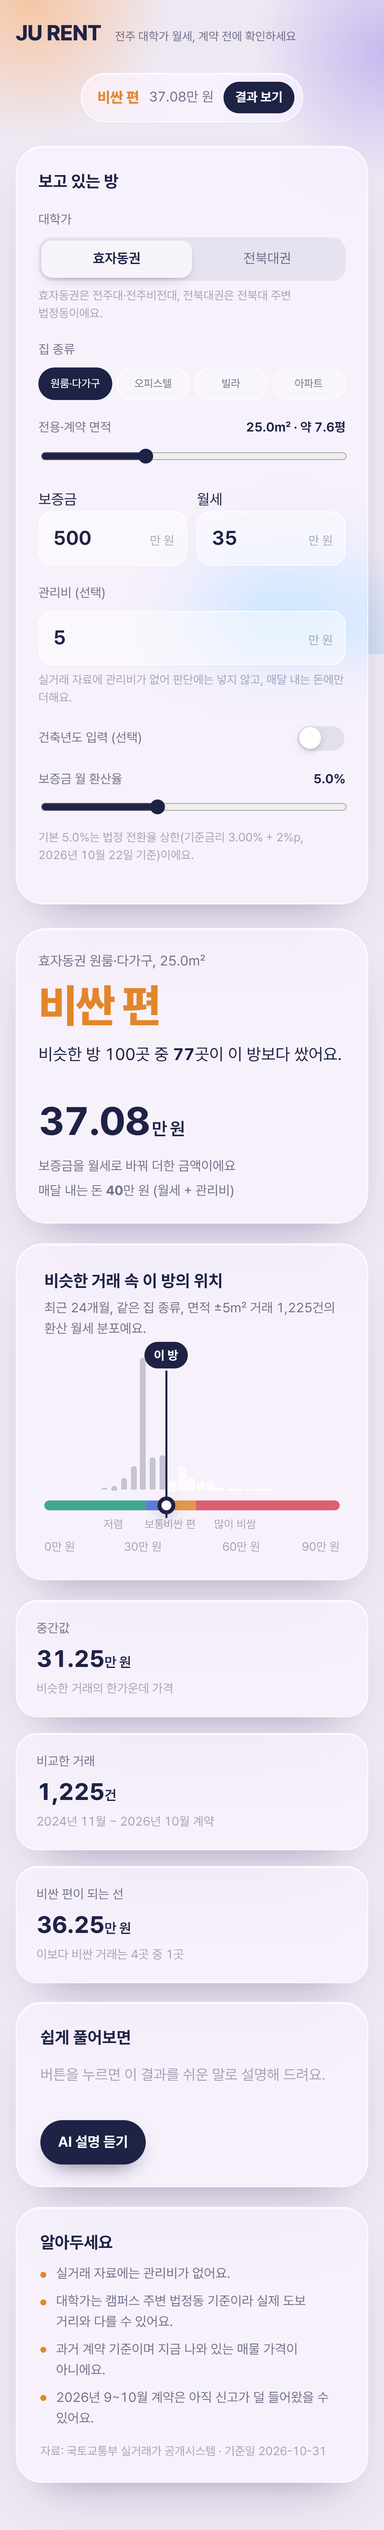
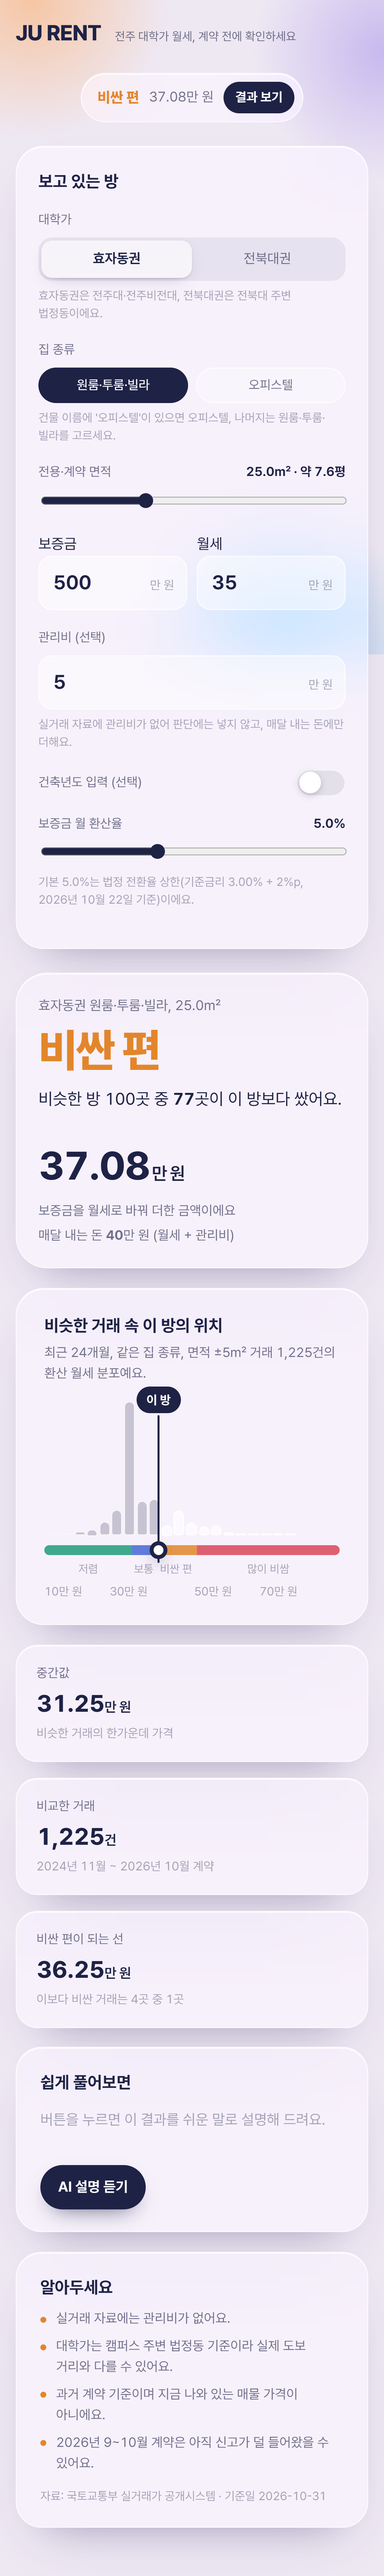
fix: align distribution axis and simplify housing choices

diff --git a/web/src/App.tsx b/web/src/App.tsx
@@ -1,7 +1,8 @@
 import { animate, motion, useMotionValue, useMotionValueEvent, useReducedMotion } from 'motion/react'
 import { useEffect, useMemo, useRef, useState } from 'react'
 import { comparisonSentence, displayWarning, monthPeriod, percentileSentence, rateHint, verdictText } from './copy'
-import { axisTicks, pinPlacement, shouldDrawDistribution } from './distribution'
+import { distributionAxis, pinPlacement, positionOnAxis, shouldDrawDistribution } from './distribution'
+import { housingName, housingOptions } from './housing'
 import type { ContractInput, Explanation, Judgment, Meta } from './types'
 
 type FormState = {
@@ -94,11 +95,9 @@ function Distribution({ result }: { result: Judgment }) {
   const low = bins[0]?.left ?? 0
   const high = bins.at(-1)?.right ?? low + 1
   const draw = shouldDrawDistribution(result.label, bins.length)
-  const ticks = axisTicks(low, high)
-  const axisLow = ticks[0]
-  const axisHigh = ticks.at(-1)!
-  const position = (value: number) => Math.min(100, Math.max(0, (value - axisLow) / (axisHigh - axisLow) * 100))
-  const pin = pinPlacement(result.converted_monthly_10k_krw, low, high, axisLow, axisHigh)
+  const axis = distributionAxis(low, high, result.converted_monthly_10k_krw)
+  const position = (value: number) => positionOnAxis(value, axis)
+  const pin = pinPlacement(result.converted_monthly_10k_krw, low, high, axis)
   const maxCount = Math.max(1, ...bins.map(bin => bin.count))
   const regions = q ? [
     { width: position(q.p25), color: 'var(--cheap)', label: '저렴' },
@@ -107,8 +106,8 @@ function Distribution({ result }: { result: Judgment }) {
     { width: 100 - position(q.p90), color: 'var(--very)', label: '많이 비쌈' },
   ] : []
   const centers = q ? [
-    position((low + q.p25) / 2), position((q.p25 + q.p75) / 2),
-    position((q.p75 + q.p90) / 2), position((q.p90 + high) / 2),
+    position((axis.low + q.p25) / 2), position((q.p25 + q.p75) / 2),
+    position((q.p75 + q.p90) / 2), position((q.p90 + axis.high) / 2),
   ] : []
 
   return <section className="dist glass reveal d3" aria-label="비슷한 거래 분포">
@@ -134,7 +133,7 @@ function Distribution({ result }: { result: Judgment }) {
           <div className="stem" /><div className="dot" /><div className="tag">{pin.tag}</div>
         </motion.div>
       </div>
-      <div className="axis">{ticks.map(tick => <span key={tick} style={{ left: `${position(tick)}%` }}>{format(tick)}만 원</span>)}</div>
+      <div className="axis">{axis.ticks.map(tick => <span key={tick} style={{ left: `${position(tick)}%` }}>{format(tick)}만 원</span>)}</div>
     </> : <p className="dist-empty">비슷한 거래가 적어 분포를 그리지 않았어요</p>}
   </section>
 }
@@ -164,7 +163,7 @@ export default function App() {
       .then(data => {
         setMeta(data)
         setForm(current => ({ ...current, campus: data.campuses[0],
-          housing_type: data.housing_types[0].code, rate_pct: data.rate.default_pct }))
+          housing_type: housingOptions(data)[0]?.code ?? '', rate_pct: data.rate.default_pct }))
       })
       .catch(error => { if (error.name !== 'AbortError') setServerError({ field: 'general', message: error.message }) })
     return () => controller.abort()
@@ -224,7 +223,7 @@ export default function App() {
     } finally { if (!controller.signal.aborted) setExplainLoading(false) }
   }
 
-  const selectedName = meta?.housing_types.find(item => item.code === result?.input.housing_type)?.name ?? ''
+  const selectedName = housingName(result?.input.housing_type ?? '')
   const converted = result?.converted_monthly_10k_krw ?? 0
   const label = result ? verdictText(result) : ''
   const progress = result?.percentile ?? null
@@ -261,10 +260,11 @@ export default function App() {
       <div className="field">
         <div className="lab">집 종류</div>
         <div className="chips" role="group" aria-label="집 종류">
-          {meta?.housing_types.map(kind => <button key={kind.code} type="button"
-            aria-pressed={form.housing_type === kind.code} title={kind.description}
+          {meta && housingOptions(meta).map(kind => <button key={kind.code} type="button"
+            aria-pressed={form.housing_type === kind.code}
             onClick={() => update({ housing_type: kind.code })}>{kind.name}</button>)}
         </div>
+        <div className="hint">건물 이름에 '오피스텔'이 있으면 오피스텔, 나머지는 원룸·투룸·빌라를 고르세요.</div>
       </div>
       <div className="field">
         <label className="range-head" htmlFor="area"><span>전용·계약 면적</span><b>{form.area.toFixed(1)}㎡ · 약 {(form.area / 3.305785).toFixed(1)}평</b></label>

diff --git a/web/src/distribution.test.ts b/web/src/distribution.test.ts
@@ -1,5 +1,5 @@
 import { describe, expect, it } from 'vitest'
-import { axisTicks, pinPlacement, shouldDrawDistribution } from './distribution'
+import { distributionAxis, pinPlacement, positionOnAxis, shouldDrawDistribution } from './distribution'
 
 describe('distribution presentation', () => {
   it('hides all plotted elements when judgment is on hold', () => {
@@ -7,24 +7,42 @@ describe('distribution presentation', () => {
     expect(shouldDrawDistribution('보통', 20)).toBe(true)
   })
 
-  it('pins values outside observed transactions to the appropriate edge', () => {
-    expect(pinPlacement(37, 46, 47, 30, 50))
-      .toEqual({ position: 0, tag: '비교한 거래보다 싸요', edge: 'low' })
-    expect(pinPlacement(75, 11, 70, 0, 90))
-      .toEqual({ position: 100, tag: '비교한 거래보다 비싸요', edge: 'high' })
-    expect(pinPlacement(46.5, 46, 47, 30, 50))
+  it('rounds the observed domain outward to 10만 원 and includes the listing', () => {
+    expect(distributionAxis(11.25, 70.08, 47.08)).toEqual({ low: 10, high: 80, ticks: [10, 30, 50, 70] })
+    expect(distributionAxis(11.25, 70.08, 87.1)).toEqual({ low: 10, high: 90, ticks: [10, 30, 50, 70, 90] })
+    expect(distributionAxis(43.33, 79.17, 33.5)).toEqual({ low: 30, high: 80, ticks: [30, 50, 70] })
+  })
+
+  it('uses one scale for bars, quantiles, ticks, and the listing pin', () => {
+    const axis = distributionAxis(11.25, 70.08, 87.1)
+    expect(positionOnAxis(11.25, axis)).toBeCloseTo(1.5625)
+    expect(positionOnAxis(50, axis)).toBe(50)
+    expect(positionOnAxis(70.08, axis)).toBeCloseTo(75.1)
+    const pin = pinPlacement(87.1, 11.25, 70.08, axis)
+    expect(pin.position).toBeCloseTo(96.375)
+    expect(pin.tag).toBe('비교한 거래보다 비싸요')
+    expect(pin.edge).toBe('high')
+  })
+
+  it('marks out-of-range values at their true scaled position', () => {
+    const axis = distributionAxis(46, 47, 37)
+    expect(pinPlacement(37, 46, 47, axis))
+      .toEqual({ position: 35, tag: '비교한 거래보다 싸요', edge: 'low' })
+    expect(pinPlacement(46.5, 46, 47, axis))
       .toEqual({ position: 82.5, tag: '이 방', edge: null })
   })
 
-  it('makes three or four unique 10-man-won axis ticks even for narrow ranges', () => {
-    for (const [low, high] of [[46, 47], [11, 70], [0, 1], [95, 105]]) {
-      const ticks = axisTicks(low, high)
-      expect(ticks.length).toBeGreaterThanOrEqual(3)
-      expect(ticks.length).toBeLessThanOrEqual(4)
-      expect(new Set(ticks).size).toBe(ticks.length)
-      expect(ticks.every(tick => Number.isInteger(tick) && tick % 10 === 0)).toBe(true)
-      expect(ticks[0]).toBeLessThanOrEqual(low)
-      expect(ticks.at(-1)).toBeGreaterThanOrEqual(high)
+  it('uses three to five unique ticks at 10만 or 20만 원 intervals for plottable ranges', () => {
+    for (const [low, high, value] of [[11.25, 70.08, 47.08], [43.33, 79.17, 33.5], [95, 105, 100]]) {
+      const axis = distributionAxis(low, high, value)
+      expect(axis.ticks.length).toBeGreaterThanOrEqual(3)
+      expect(axis.ticks.length).toBeLessThanOrEqual(5)
+      expect(new Set(axis.ticks).size).toBe(axis.ticks.length)
+      expect(axis.ticks.every(tick => Number.isInteger(tick) && tick % 10 === 0)).toBe(true)
+      expect(new Set(axis.ticks.slice(1).map((tick, i) => tick - axis.ticks[i])).size).toBe(1)
+      expect([10, 20]).toContain(axis.ticks[1] - axis.ticks[0])
+      expect(axis.ticks[0]).toBe(axis.low)
+      expect(axis.ticks.at(-1)).toBeLessThanOrEqual(axis.high)
     }
   })
 })

diff --git a/web/src/distribution.ts b/web/src/distribution.ts
@@ -2,30 +2,26 @@ export function shouldDrawDistribution(label: string, binCount: number): boolean
   return label !== '표본 부족' && binCount > 0
 }
 
-/** Three or four distinct tick values, each an integer multiple of 10만 원. */
-export function axisTicks(low: number, high: number): number[] {
-  const floor = Math.max(0, low)
-  const ceiling = Math.max(floor + 1, high)
-  for (let step = 10; ; step += 10) {
-    let start = Math.floor(floor / step) * step
-    let end = Math.ceil(ceiling / step) * step
-    if ((end - start) / step + 1 > 4) continue
-    if (end - start < 2 * step) {
-      if (start >= step) start -= step
-      else end += step
-    }
-    const count = Math.round((end - start) / step) + 1
-    return Array.from({ length: count }, (_, index) => start + index * step)
-  }
+export type DistributionAxis = { low: number; high: number; ticks: number[] }
+
+/** Keep the plotted domain on exact 10만 원 boundaries, including the listing. */
+export function distributionAxis(observedLow: number, observedHigh: number, listing: number): DistributionAxis {
+  const low = Math.floor(Math.min(observedLow, listing) / 10) * 10
+  const high = Math.ceil(Math.max(observedHigh, listing) / 10) * 10
+  const span = high - low
+  const step = span > 40 ? 20 : 10
+  const count = Math.min(5, Math.floor(span / step) + 1)
+  return { low, high, ticks: Array.from({ length: count }, (_, index) => low + index * step) }
+}
+
+export function positionOnAxis(value: number, axis: Pick<DistributionAxis, 'low' | 'high'>): number {
+  return Math.min(100, Math.max(0, (value - axis.low) / (axis.high - axis.low) * 100))
 }
 
 export function pinPlacement(
-  value: number, observedLow: number, observedHigh: number, axisLow: number, axisHigh: number,
+  value: number, observedLow: number, observedHigh: number, axis: DistributionAxis,
 ): { position: number; tag: string; edge: 'low' | 'high' | null } {
-  if (value < observedLow) return { position: 0, tag: '비교한 거래보다 싸요', edge: 'low' }
-  if (value > observedHigh) return { position: 100, tag: '비교한 거래보다 비싸요', edge: 'high' }
-  return {
-    position: Math.min(100, Math.max(0, (value - axisLow) / (axisHigh - axisLow) * 100)),
-    tag: '이 방', edge: null,
-  }
+  if (value < observedLow) return { position: positionOnAxis(value, axis), tag: '비교한 거래보다 싸요', edge: 'low' }
+  if (value > observedHigh) return { position: positionOnAxis(value, axis), tag: '비교한 거래보다 비싸요', edge: 'high' }
+  return { position: positionOnAxis(value, axis), tag: '이 방', edge: null }
 }

diff --git a/web/src/style.css b/web/src/style.css
@@ -177,7 +177,7 @@ button:focus-visible, input:focus-visible { outline: 2px solid var(--normal); ou
   .converted { justify-self: start; text-align: left; }
   .verdict { font-size: 52px; }
   .facts, .split { grid-template-columns: 1fr; }
-  .chips { grid-template-columns: repeat(4, auto); justify-content: start; }
+  .chips { grid-template-columns: 1fr 1fr; }
   .note { display: none; }
   .mini {
     display: flex; align-items: center; gap: 10px; position: sticky; top: 10px; z-index: 4;
@@ -232,8 +232,8 @@ button:focus-visible, input:focus-visible { outline: 2px solid var(--normal); ou
 .num input[type=number] { appearance: textfield; }
 .num input[type=number]::-webkit-inner-spin-button { appearance: none; }
 @media (max-width: 480px) {
-  .chips { grid-template-columns: repeat(4, minmax(0, 1fr)); gap: 4px; }
-  .chips button { font-size: 11px; padding: 7px 3px; }
+  .chips { grid-template-columns: repeat(2, minmax(0, 1fr)); gap: 8px; }
+  .chips button { font-size: 13px; padding: 7px 8px; }
   .brand span { font-size: 12px; }
   .hero .verdict { font-size: 46px; }
 }

diff --git a/web/src/housing.test.ts b/web/src/housing.test.ts
@@ -1,0 +1,20 @@
+import { describe, expect, it } from 'vitest'
+import { housingName, housingOptions } from './housing'
+
+describe('housing choices on the contract screen', () => {
+  it('shows only the two current choices while keeping the API codes', () => {
+    const options = housingOptions({ housing_types: [
+      { code: 'detached_multiunit', name: '원룸·다가구', description: '' },
+      { code: 'officetel', name: '오피스텔', description: '' },
+      { code: 'multifamily', name: '빌라', description: '' },
+      { code: 'apartment', name: '아파트', description: '' },
+    ] })
+    expect(options).toEqual([
+      { code: 'detached_multiunit', name: '원룸·투룸·빌라' },
+      { code: 'officetel', name: '오피스텔' },
+    ])
+    expect(options[0].code).toBe('detached_multiunit')
+    expect(housingName('detached_multiunit')).toBe('원룸·투룸·빌라')
+    expect(housingName('officetel')).toBe('오피스텔')
+  })
+})

diff --git a/web/src/housing.ts b/web/src/housing.ts
@@ -1,0 +1,14 @@
+import type { Meta } from './types'
+
+const DISPLAY_HOUSING = [
+  { code: 'detached_multiunit', name: '원룸·투룸·빌라' },
+  { code: 'officetel', name: '오피스텔' },
+] as const
+
+export function housingOptions(meta: Pick<Meta, 'housing_types'>) {
+  return DISPLAY_HOUSING.filter(option => meta.housing_types.some(kind => kind.code === option.code))
+}
+
+export function housingName(code: string): string {
+  return DISPLAY_HOUSING.find(option => option.code === code)?.name ?? ''
+}
